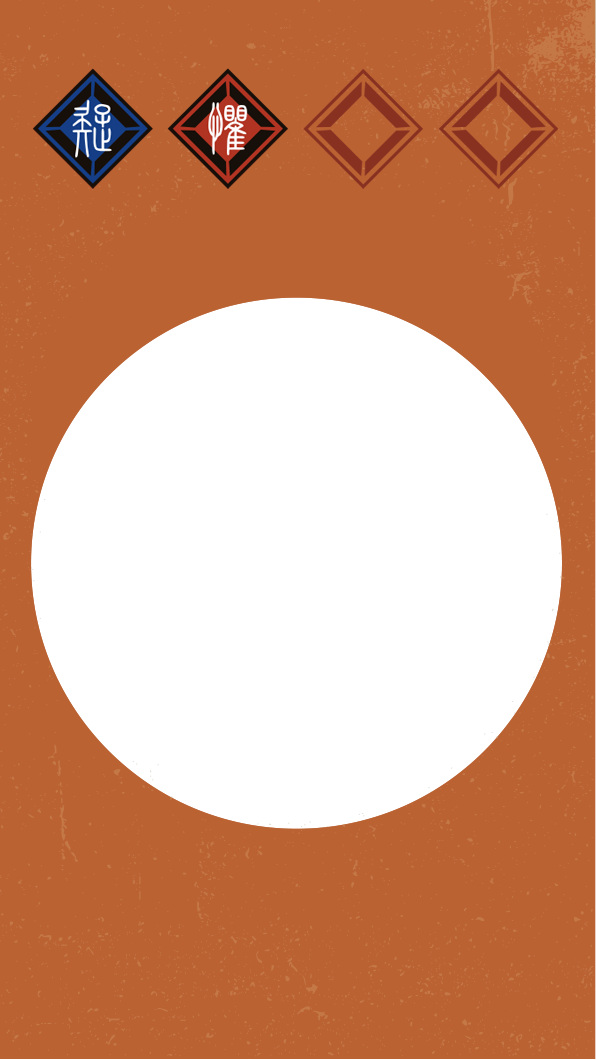
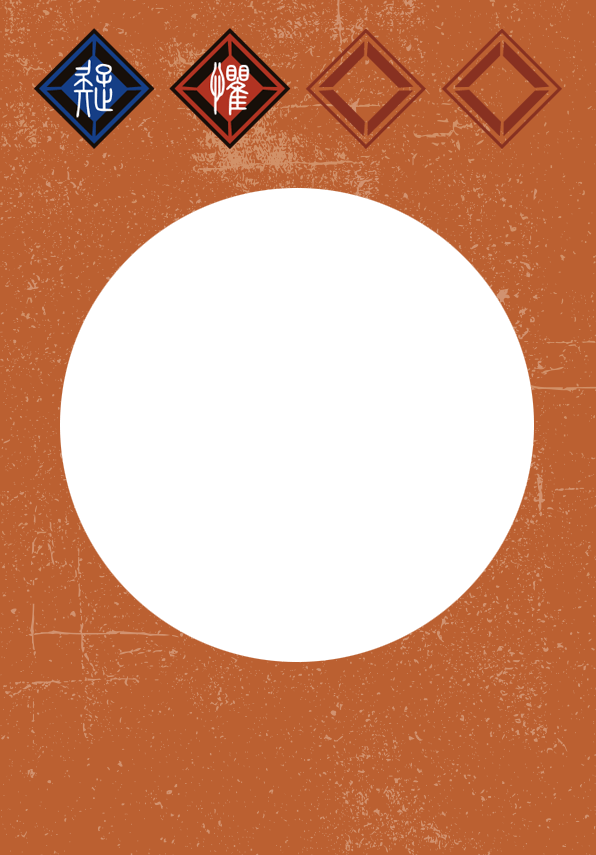
mission demo ok

diff --git a/mission0-6ar.html b/mission0-6ar.html
@@ -1,52 +1,99 @@
-<!doctype html>
-<html lang="en">
+<!DOCTYPE html>
+<html>
   <head>
-    <meta charset="utf-8">
-    <meta name="viewport" content="width=device-width, initial-scale=1, shrink-to-fit=no">
-    <meta name="description" content="">
-    <meta name="author" content="Mark Otto, Jacob Thornton, and Bootstrap contributors">
-    <meta name="generator" content="Jekyll v4.1.1">
-    <title>國立歷史博物館-人生不卡關</title>
-
+    <meta charset="utf-8" />
+    <meta http-equiv="X-UA-Compatible" content="IE=edge" />
+    <title>國立歷史博物館-人生不卡關></title>
     
+    <script src='https://cdn.jsdelivr.net/gh/aframevr/aframe@1c2407b26c61958baa93967b5412487cd94b290b/dist/aframe-master.min.js'></script>
+    <script src='https://raw.githack.com/AR-js-org/AR.js/master/aframe/build/aframe-ar-nft.js'></script>
 
-    <!-- Bootstrap core CSS -->
-<link href="css/bootstrap.css" rel="stylesheet">
-<link href="https://fonts.googleapis.com/css2?family=Noto+Sans+TC:wght@100;300;400;500;700&family=Noto+Serif+TC:wght@600;700;900&display=swap" rel="stylesheet">
+<style>
+  .arjs-loader {
+    height: 100%;
+    width: 100%;
+    position: absolute;
+    top: 0;
+    left: 0;
+    background-repeat:no-repeat;
+    -moz-background-size:cover;
+    -webkit-background-size:cover;
+    -o-background-size:cover;
+    background-size:cover;
+    /* background-color: rgba(0, 0, 0, 0.8); */
+    z-index: 9998;
+    display: flex;
+    justify-content: center;
+    align-items: center;
+  }
 
-    <style>
-      .bd-placeholder-img {
-        font-size: 1.125rem;
-        text-anchor: middle;
-        -webkit-user-select: none;
-        -moz-user-select: none;
-        -ms-user-select: none;
-        user-select: none;
-      }
+  .arjs-loader div {
+    text-align: center;
+    font-size: 1.25em;
+    color: white;
+  }
 
-      @media (min-width: 768px) {
-        .bd-placeholder-img-lg {
-          font-size: 3.5rem;
-        }
-      }
-    </style>
-    <!-- Custom styles for this template -->
-    <link href="css/style2.css" rel="stylesheet">
-    <script
-  src="https://code.jquery.com/jquery-3.5.1.js"
-  integrity="sha256-QWo7LDvxbWT2tbbQ97B53yJnYU3WhH/C8ycbRAkjPDc="
-  crossorigin="anonymous"></script>
-    <script src="js/bootstrap.js" ></script>
-  </head>
-  <body class="text-center">
-    <div class="cover-container2 d-flex w-100 h-100 mx-auto flex-column">
+  a-scene{
+    
+  }
+  .tops{
+    background-image:url('img/ar-camra0.png'); 
+    height: 100%;
+    position: relative;
+    /* background-color: rgb(238, 255, 0);  */
+    background-repeat:no-repeat;
+    background-position: center;
+    -moz-background-size: 55% auto;
+    -webkit-background-size:55% auto;
+    -o-background-size:55% auto;
+    background-size:55% auto;
+  }
+  .topic{
+      width:100%;
+      text-align: center;
+    position: absolute;
+    bottom:10px;
+    left:0;
+    z-index: 9999;
+    color:#000;
+  }
+  .topic img{
+    vertical-align: middle;
+  }
+</style>
+</head>
 
-        <main role="main" class="inner">
-            <div class="mission ar-div">
-                <img src="img/ar-camra.png" alt="">
-                <p class="ar-title">請掃描圖卡<a href="mission0-6.html"><img width="30px" src="img/icon-close.png" alt="關閉業鏡" class="ar-close img-align ml-3"></a></p>
-            </div>
-        </main>
-</div>
+
+
+<body style='margin : 0px; overflow: hidden;'>
+  <div class="arjs-loader">
+    <div>Loading, please wait...</div>
+  </div>
+  <div class="tops">
+    <div class="topic">請掃描圖片 <img width="35" src="img/goback.png" alt=""></div>
+    <a-scene
+        vr-mode-ui='enabled: false;'
+        renderer="logarithmicDepthBuffer: true;"
+        embedded arjs='trackingMethod: best; sourceType: webcam; debugUIEnabled: false;'>
+        <a-nft
+            type='nft' url='https://bavistyc.github.io/NMHarweb/img_desc/marker_1'
+            smooth='true' smoothCount='1' smoothTolerance='0.01' smoothThreshold='2'>
+			<!-- åœ–ç‰‡-->
+            <!-- <a-entity geometry="primitive:plane;" material="src:#img1" rotation="-90 0 0" scale="100 100 100"
+                position="5 0 0"></a-entity>-->
+			<!--GIF-->
+           <a-entity >
+                <a-image src="https://bavistyc.github.io/NMHarweb/img_ar/img_1.png"
+                scale="250 250 250"
+                position="70 0 -180"
+                rotation="-90 0 0"
+                crossorigin
+            ></a-image>
+           </a-entity>
+        </a-nft>
+
+		<a-entity camera></a-entity>
+    </a-scene>
+  </div>
 </body>
 </html>

diff --git a/mission0-5ar.html b/mission0-5ar.html
@@ -37,7 +37,7 @@
     
   }
   .tops{
-    background-image:url('img/ar-camra.png'); 
+    background-image:url('img/ar-camra0.png'); 
     height: 100%;
     position: relative;
     /* background-color: rgb(238, 255, 0);  */
